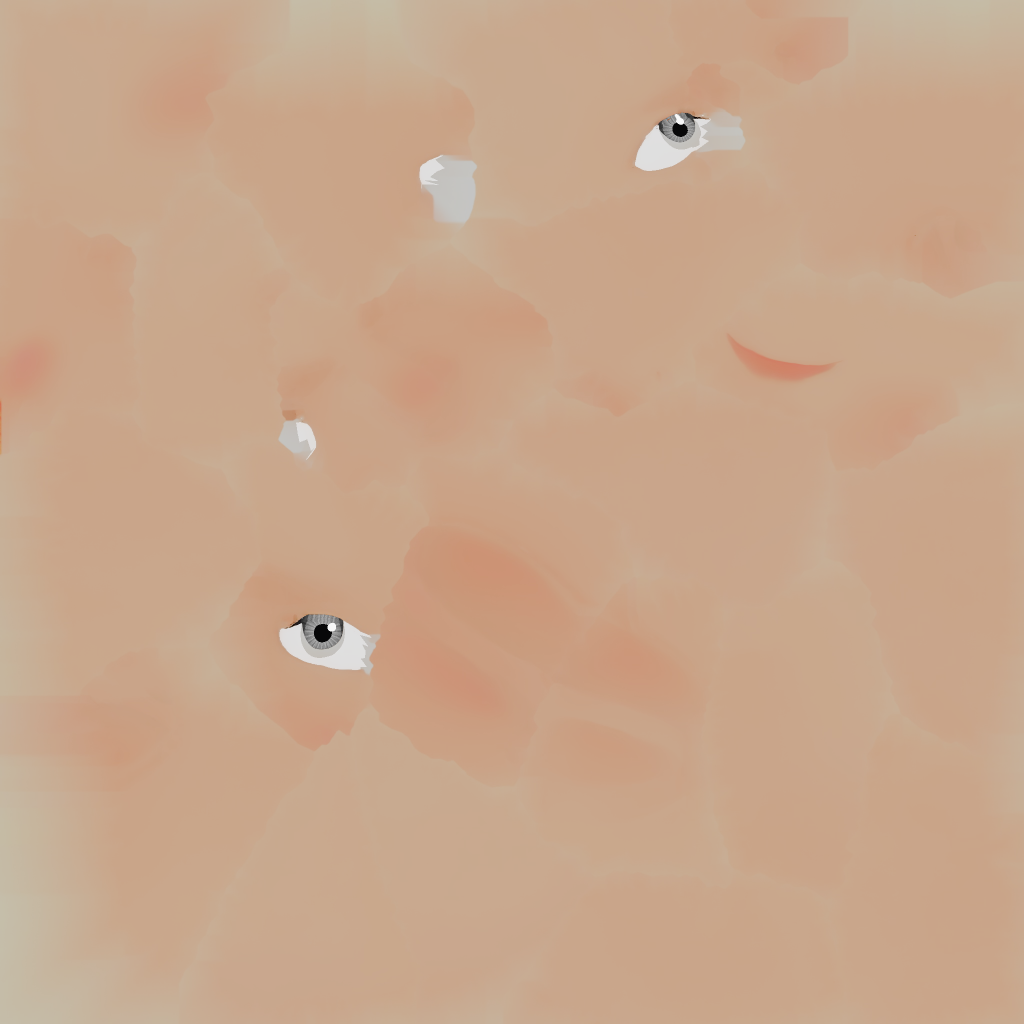
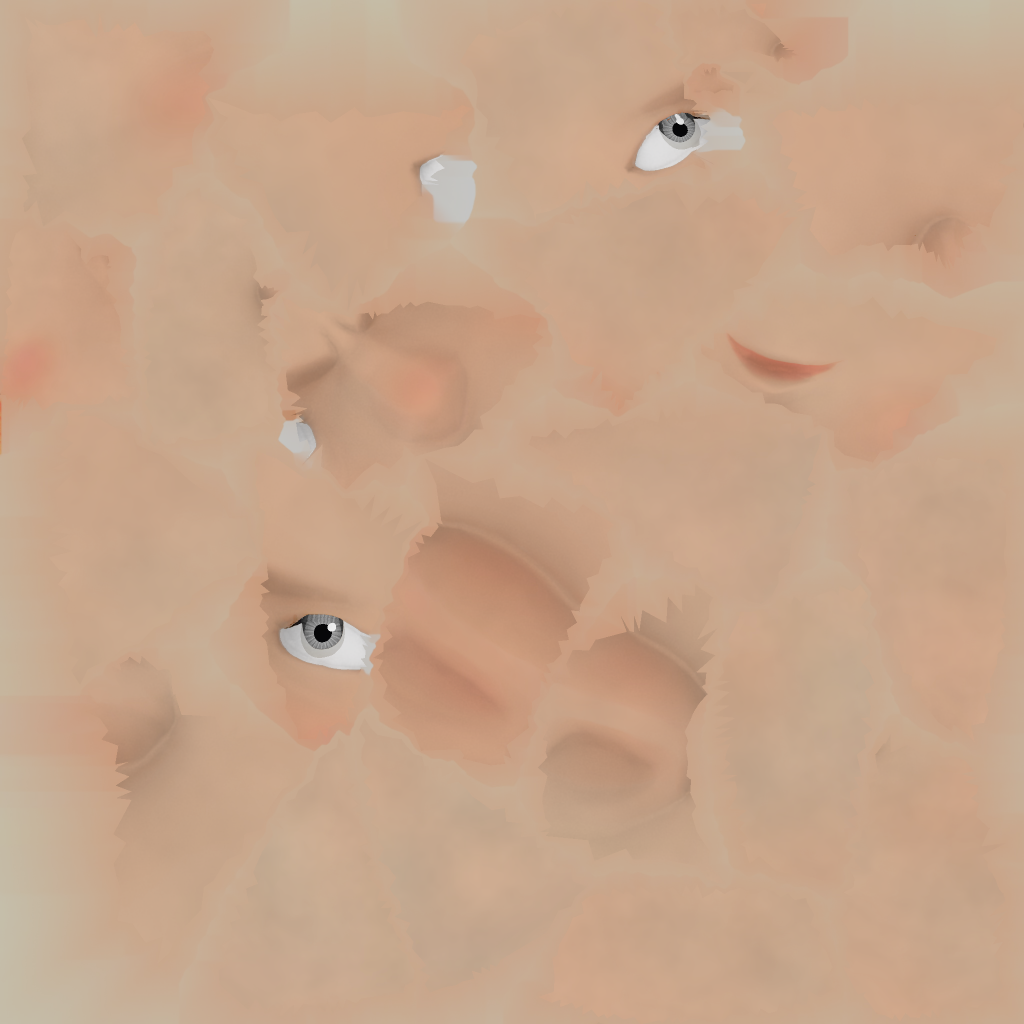
foi's heads: lifelike skin - shade baked in (ambient occlusion), a fine seamless skin mottle, warmer natural tones; eyelids take the skin tone
- head kit: AO baked with Cycles onto the head's picture, 3D-noise skin detail (no seams across its pieces), the eye whites only
  inside each eye's oval (the skin round the eyes was left uncoloured: light lids on dark skin)
- skin tones closer to real ones, a touch more saturation on the skin, the face a little more lit (0.2, own 0.72)

diff --git a/Assets/_Project/Scripts/Visual/SkinnedHero.cs b/Assets/_Project/Scripts/Visual/SkinnedHero.cs
@@ -356,11 +356,11 @@ namespace SquashBot.Visual
 
         /// <summary>The head's own light: most of its colour, which no light or shadow takes away, so the face keeps the
         /// same skin in every scene (orange suns, blue ice, the menu) and never darkens as the lights round it change.</summary>
-        private const float HeadGlow = 0.8f;
+        private const float HeadGlow = 0.72f;
 
         /// <summary>How much the face takes from the lights round it (the rest is its own light): coloured lamps and flames
         /// on a floor tint it only a little, and it never goes dark or orange.</summary>
-        private const float HeadLit = 0.12f; // (barely: the shading painted on it shapes it; no lamp tints its skin or hair)
+        private const float HeadLit = 0.2f; // (a little: the shade baked on it shapes it; no lamp tints its skin or hair)
 
         private static Material HeadPaint(int n, Color? skin, Color? eyes)
         {
@@ -397,7 +397,7 @@ namespace SquashBot.Visual
                         if (ws > 0.01f)
                         {
                             var mul = Vector3.one + (sr - Vector3.one) * ws;
-                            p = new Color32((byte)Mathf.Min(255f, p.r * mul.x), (byte)Mathf.Min(255f, p.g * mul.y), (byte)Mathf.Min(255f, p.b * mul.z), 255);
+                            p = Vivid(new Color32((byte)Mathf.Min(255f, p.r * mul.x), (byte)Mathf.Min(255f, p.g * mul.y), (byte)Mathf.Min(255f, p.b * mul.z), 255), ws * 0.35f); // (the skin a touch richer: alive, never grey)
                         }
                         if (wi > 0.01f) p = Color32.Lerp(p, HairTint(src.px[i], eye, info.iris), wi); // (the grey iris in the eye colour, its streaks kept)
                         px[i] = p;

diff --git a/Assets/_Project/Scripts/Data/Cosmetics.cs b/Assets/_Project/Scripts/Data/Cosmetics.cs
@@ -174,10 +174,10 @@ namespace SquashBot.Data
             C("hair.green", Slot.Hair, 300, 4, new Color(0.25f, 0.75f, 0.35f)),
             C("hair.purple", Slot.Hair, 400, 5, new Color(0.55f, 0.28f, 0.9f)),
             // the skin: people's own tones only, all free (wheat, fair, tan, dark)
-            C("skin.wheat", Slot.Skin, 0, 0, new Color(0.82f, 0.64f, 0.5f)),
-            C("skin.fair", Slot.Skin, 0, 0, new Color(0.94f, 0.79f, 0.7f)),
-            C("skin.tan", Slot.Skin, 0, 0, new Color(0.64f, 0.45f, 0.32f)),
-            C("skin.dark", Slot.Skin, 0, 0, new Color(0.37f, 0.24f, 0.16f)),
+            C("skin.wheat", Slot.Skin, 0, 0, new Color(0.84f, 0.66f, 0.53f)),
+            C("skin.fair", Slot.Skin, 0, 0, new Color(0.95f, 0.79f, 0.69f)),
+            C("skin.tan", Slot.Skin, 0, 0, new Color(0.68f, 0.49f, 0.36f)),
+            C("skin.dark", Slot.Skin, 0, 0, new Color(0.42f, 0.27f, 0.18f)),
             // the eyes: people's own colours free, a few rarer ones to buy
             C("iris.brown", Slot.Iris, 0, 0, new Color(0.42f, 0.26f, 0.13f)),
             C("iris.hazel", Slot.Iris, 0, 0, new Color(0.56f, 0.42f, 0.2f)),
